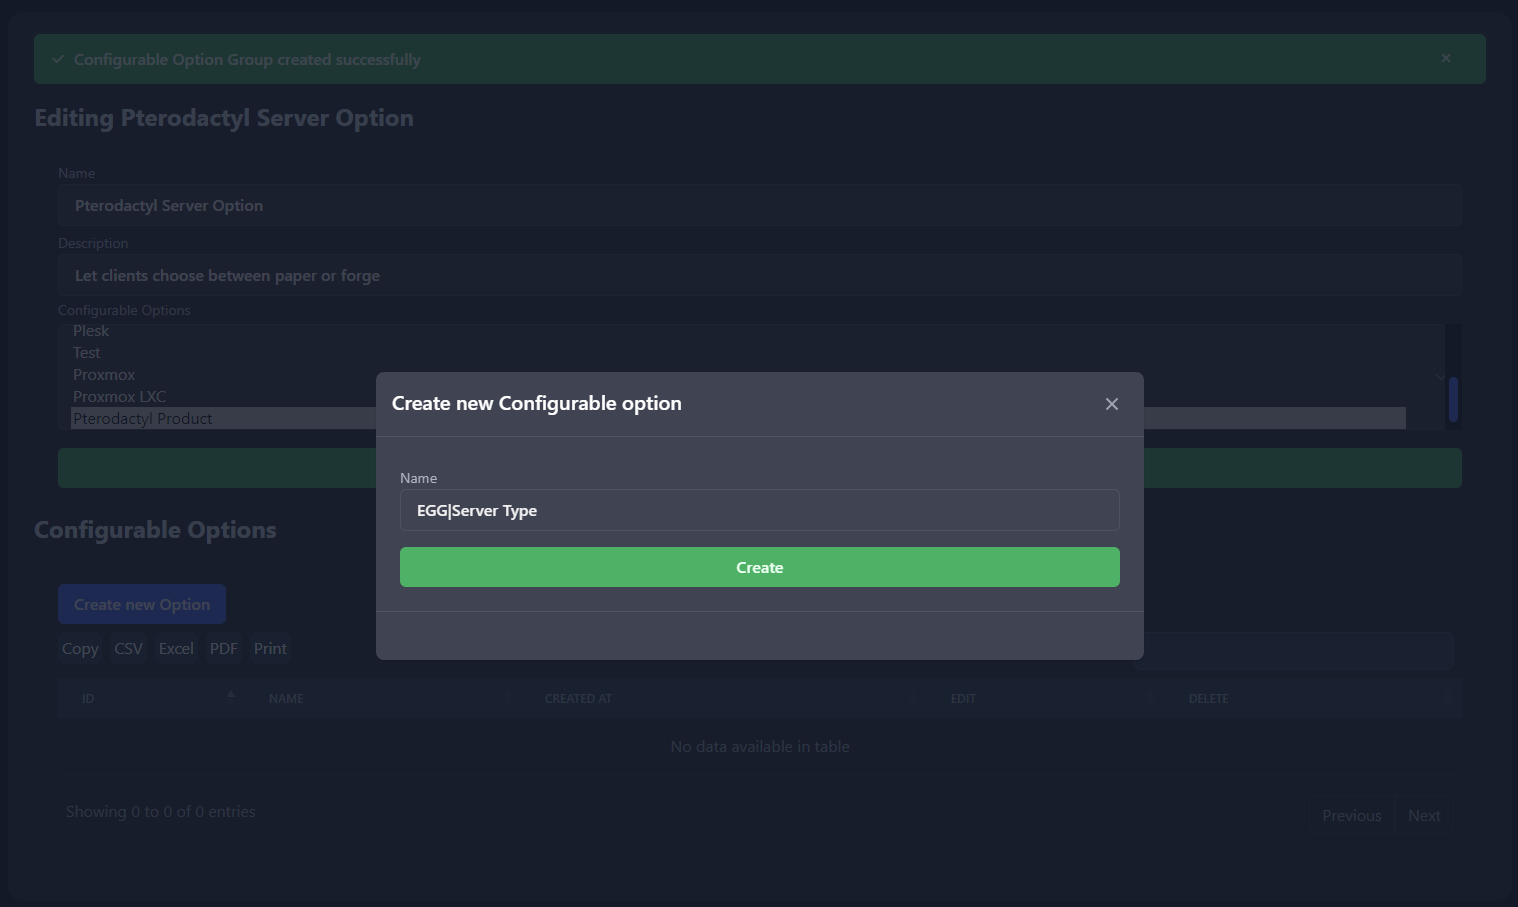
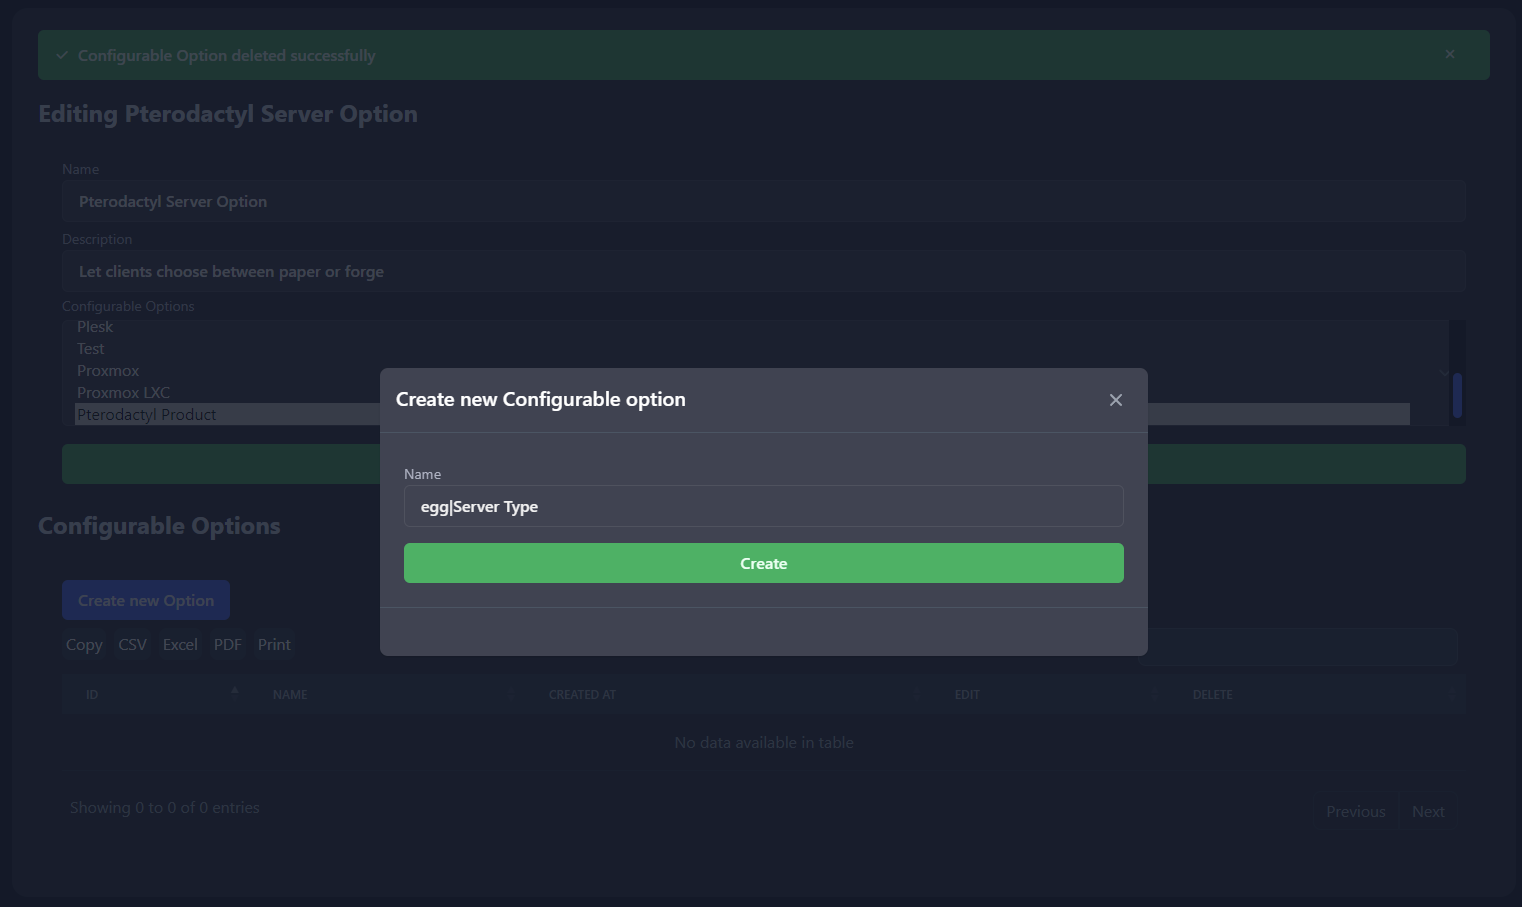
fix: made egg lowercase

diff --git a/content/docs/guides/configurable-options/index.md b/content/docs/guides/configurable-options/index.md
@@ -14,7 +14,7 @@ Example
 ### Step 2: Create the options
 Now we need to create the options for the configurable option. Click on `Create new option` and fill in the name.
 
-It is important to set the name to `EGG| <Your Display Name>` this is important for pterodactyl to know what variable to use. 
+It is important to set the name to `egg| <Your Display Name>` this is important for pterodactyl to know what variable to use. 
 
 For a full list of names checkout the [pterodactyl guide](/features/pterodactyl/#configuring-the-product)
 
